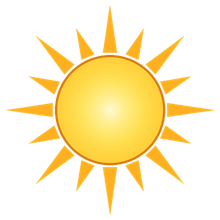
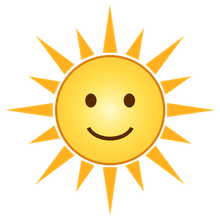
太陽：ストックをやめて、北風とぶつかって相殺する演出に
Claude-Session: https://claude.ai/code/session_01HLDAdxR8EuB7ryd8AUY3Hp

Changed region(s): [[0.3818, 0.5727, 0.6273, 0.6545], [0.5455, 0.4091, 0.6273, 0.4909], [0.3818, 0.4091, 0.4636, 0.4909]]

diff --git a/tsumi/index.html b/tsumi/index.html
@@ -508,7 +508,9 @@ const Game = {
   cerberus(name){ if(S.mode!=='playing') return; startWinFly(-1,name); },
   robot(name){ if(S.mode!=='playing') return; startRobot(name); },
   statue(name){ if(S.mode!=='playing') return; startStatue(name); },
-  sun(name){ if(S.mode!=='playing') return; const m=DB(); let left=m; if(S.wind>0 || S.windPre>0){ S.wind=0; S.windPre=0; left--; logAdd(name+' の太陽が突風を消した','#ffe680'); banner('太陽！','#ffd23f',name+' が突風を消した'); } sunStock=Math.min(SUN_MAX,sunStock+left); if(left>0) logAdd(name+' の太陽：次の突風を防ぐ（'+sunStock+'回分）','#ffe680'); if(left===m) banner('太陽！','#ffd23f','次の突風を'+sunStock+'回ふせぐ'); sunAt=performance.now()/1000; S.holy=Math.max(S.holy,1.2); sfx.good(); },
+  sun(name){ if(S.mode!=='playing') return; const now=performance.now()/1000; if(sunC && !sunC.miss && now-sunC.at<1.4){ logAdd(name+' の太陽：もう消している最中','#ffe680'); return; }
+    if(S.wind>0 || S.windPre>0){ sunC={at:now,dir:S.windDir,y:S.windY,miss:false}; S.windPre=0; S.wind=1.3; S.windMul=1e-6; banner('相殺！','#ffd23f',name+' の太陽が突風を消した'); logAdd(name+' の太陽が突風を相殺した','#ffe680'); S.holy=Math.max(S.holy,1.4); sfx.good(); }
+    else { sunC={at:now,dir:Math.random()<.5?-1:1,y:clamp(S.topY-120,GOAL_Y-160,1290),miss:true}; logAdd(name+' の太陽：いまは風が吹いていない','#ffe680'); } },
   winGacha(name){ if(S.mode!=='playing') return; startWinGacha(name); logAdd(name+' がWINガチャを回した','#ffe680'); sfx.good(); },
   manGacha(name){ if(S.mode!=='playing') return; if(stGuard()){ guarded(name,'タイツガチャ'); return; } const go=()=>startBigGacha(name,MANKEYS,'タイツガチャ',['#0c2a3a','#1f7a8c','#1f7a8c','#06303a']); go(); if(DB()>1) go(); logAdd(name+' がタイツガチャを回した','#ff9aa8'); sfx.bad(); },
   bigGacha(name){ if(S.mode!=='playing') return; if(stGuard()){ guarded(name,'巨大ガチャ'); return; } startBigGacha(name); if(DB()>1) startBigGacha(name); logAdd(name+' が巨大ガチャを回した','#ff9aa8'); sfx.bad(); },
@@ -521,7 +523,7 @@ const Game = {
       if(stGuard() && kind!=='ant'){ guarded(name,kind==='wind'?'突風':kind==='big'?'動物スロット':'ゆれ'); return; }
       if(kind==='quake'){ S.quake=CFG.quakeSec; S.qk=0; S.qkMul=DB(); play('quake'); startNamazu(); logAdd(name+' が地面をゆらした','#ff9aa8'); sfx.bad(); return; }
       if(kind==='ant'){ dropAnt(name); if(DB()>1) dropAnt(name); logAdd(name+' がアリを落とした','#ff9aa8'); sfx.bad(); return; }
-      if(kind==='wind'){ if(sunStock>0){ sunStock--; sunAt=performance.now()/1000; logAdd('太陽が '+name+' の突風を消した（残り'+sunStock+'回）','#ffe680'); banner('太陽が突風を消した！','#ffd23f',name+' の突風'); sfx.good(); return; } S.windMul=DB(); if(S.wind>0 || S.windPre>0){ S.wind=Math.max(S.wind,0)+CFG.windSec; } else { S.windPre=CFG.windPre; S.windDir=Math.random()<.5?-1:1; S.windY=clamp(S.topY+50,GOAL_Y-160,1290); } banner('突風！','#9be9ff',name+' のしわざ'); logAdd(name+' が突風を起こした','#ff9aa8'); }
+      if(kind==='wind'){ S.windMul=DB(); if(S.wind>0 || S.windPre>0){ S.wind=Math.max(S.wind,0)+CFG.windSec; } else { S.windPre=CFG.windPre; S.windDir=Math.random()<.5?-1:1; S.windY=clamp(S.topY+50,GOAL_Y-160,1290); } banner('突風！','#9be9ff',name+' のしわざ'); logAdd(name+' が突風を起こした','#ff9aa8'); }
       else { startRoulette(name); if(DB()>1) startRoulette(name); logAdd(name+' が動物スロットを回した','#ff9aa8'); } sfx.bad(); }
     else if(size===2){ logAdd(name+' がネクロマンサーを呼んだ','#c79bff');
       const apply=()=>{ if(S.mode!=='playing') return; S.ghost=CFG.ghostCount*DB(); S.purple=1.2; S.shake=.3; sfx.bad();
@@ -701,10 +703,18 @@ const stGuard=()=>S.stRound && S.mode==='playing';
 function drawStock(){ if(stStock<=0 || S.mode==='title' || !tenshiImg.naturalWidth) return; const cw=50, ch=92, cols=2, rows=Math.ceil(ST_MAX/cols), pw=cols*cw+22, ph=rows*ch+62, x0=W-pw-12, y0=STOCK_Y; g.save();
   g.fillStyle='rgba(20,14,40,.78)'; rr(x0,y0,pw,ph,18); g.fill(); g.lineWidth=4; g.strokeStyle='#ffe680'; g.stroke(); txt('ストック',x0+pw/2,y0+24,22,'#ffe680','center'); txt(stStock+' / '+ST_MAX,x0+pw/2,y0+ph-18,22,'#fff','center');
   for(let i=0;i<ST_MAX;i++){ const cx=x0+11+(i%cols)*cw+cw/2, cy=y0+42+Math.floor(i/cols)*ch, on=i<stStock; g.globalAlpha=on?1:.16; const iw=tenshiImg.naturalWidth, ih=tenshiImg.naturalHeight, sh=ih*.5, dw=40, dh=dw*sh/iw; if(on){ g.shadowColor='#ffe680'; g.shadowBlur=10+4*Math.sin(S.t*3+i); } g.drawImage(tenshiImg,0,0,iw,sh,cx-dw/2,cy+(ch-8-dh)/2,dw,dh); g.shadowBlur=0; } g.restore(); }
-/* 太陽：突風を消す。風が吹いていない時は「次の突風を1回ふせぐ」分としてためる */
-function drawSun(){ if(S.mode==='title' || !sunImg.naturalWidth) return; const el=performance.now()/1000-sunAt;
-  if(el>=0 && el<2.4){ const u=el/2.4, e=1-Math.pow(1-u,3), sz=260+620*e; g.save(); g.fillStyle='rgba(255,196,70,'+(.3*(1-u))+')'; g.fillRect(0,0,W,1920); g.globalAlpha=clamp((1-u)*1.6,0,1); g.translate(540,620); g.rotate(el*.8); g.shadowColor='#ffb020'; g.shadowBlur=60; g.drawImage(sunImg,-sz/2,-sz/2,sz,sz); g.restore(); }
-  if(sunStock>0){ const sz=104; g.save(); g.translate(SUN_X,SUN_Y); g.save(); g.rotate(S.t*.5); g.shadowColor='#ffb020'; g.shadowBlur=24; g.drawImage(sunImg,-sz/2,-sz/2,sz,sz); g.restore(); if(sunStock>1) txt('×'+sunStock,34,38,34,'#fff','center','#7a3a00'); g.restore(); } }
+/* 太陽（北風と太陽）：突風が来ている間に出すと、風の精霊の反対側から現れて光で押し返し、突風を相殺する。風がない時は顔を出して帰るだけ */
+let sunC=null;
+function drawSunClash(){ const c=sunC; if(!c || !sunImg.naturalWidth || S.mode==='title') return; const el=performance.now()/1000-c.at, D=c.miss?1.5:2.3; if(el>D || el<0){ sunC=null; return; }
+  const d=c.dir, inn=1-Math.pow(1-clamp(el/.3,0,1),3), out=clamp((el-(D-.35))/.35,0,1), off=(1-inn)*460+out*out*460, sz=340, sx0=d>0?viewR()-210+off:viewL()+210-off, y=c.y+Math.sin(el*5)*8;
+  g.save();
+  if(!c.miss){ const mx=spiritMouth(), u0=clamp((el-.25)/.95,0,1), u=u0*u0*(3-2*u0), meet=(sx0+mx)/2+(mx-(sx0+mx)/2)*u, fl=.8+.2*Math.sin(el*60);
+    if(el>.2 && el<1.5){ g.save(); g.globalCompositeOperation='lighter'; const a=clamp((el-.2)/.15,0,1)*clamp((1.5-el)/.25,0,1); const gr=g.createLinearGradient(sx0,0,meet,0); gr.addColorStop(0,'rgba(255,214,90,'+(.75*a)+')'); gr.addColorStop(1,'rgba(255,170,40,'+(.35*a)+')'); g.fillStyle=gr; g.beginPath(); g.moveTo(sx0,y-70); g.lineTo(meet,y-130*fl); g.lineTo(meet,y+130*fl); g.lineTo(sx0,y+70); g.fill();
+      const R=(120+60*u)*fl, rg=g.createRadialGradient(meet,y,0,meet,y,R); rg.addColorStop(0,'rgba(255,255,255,'+a+')'); rg.addColorStop(.4,'rgba(255,230,120,'+(.8*a)+')'); rg.addColorStop(1,'rgba(255,160,40,0)'); g.fillStyle=rg; g.beginPath(); g.arc(meet,y,R,0,7); g.fill();
+      g.strokeStyle='rgba(255,255,255,'+(.9*a)+')'; g.lineWidth=5; g.lineCap='round'; for(let i=0;i<9;i++){ const an=i*.7+el*9, r0=R*.5, r1=R*(1.1+.5*Math.sin(el*23+i*2)); g.beginPath(); g.moveTo(meet+Math.cos(an)*r0,y+Math.sin(an)*r0); g.lineTo(meet+Math.cos(an)*r1,y+Math.sin(an)*r1); g.stroke(); } g.restore(); }
+    if(el>1.2 && el<1.75){ const k=(el-1.2)/.55, R=120+k*760; g.save(); g.globalCompositeOperation='lighter'; const rg=g.createRadialGradient(mx,y,R*.2,mx,y,R); rg.addColorStop(0,'rgba(255,255,255,'+(.9*(1-k))+')'); rg.addColorStop(.6,'rgba(255,220,110,'+(.6*(1-k))+')'); rg.addColorStop(1,'rgba(255,180,60,0)'); g.fillStyle=rg; g.beginPath(); g.arc(mx,y,R,0,7); g.fill(); g.restore(); } }
+  g.translate(sx0,y); if(d<0) g.scale(-1,1); const pu=1+.05*Math.sin(el*14)*(c.miss?0:1); g.scale(pu,pu); g.shadowColor='#ffb020'; g.shadowBlur=50; g.drawImage(sunImg,-sz/2,-sz/2,sz,sz); g.restore(); }
+function drawSun(){}
 function guarded(name,what){ logAdd('天使像が '+name+' の'+what+'をはね返した','#fff3b0'); S.holy=Math.max(S.holy,1.2); const b=S.stBody; if(b) S.rings.push({x:b.position.x,y:b.position.y,t:0}); sfx.good(); }
 function startStatue(name){ const apply=()=>{ { const from=wins, add=CFG.statueWin*DB(); wins+=add; saveWins(); S.winRoll={from,to:wins,t:0,dur:1.0}; logAdd(name+' の天使像：WIN ＋'+add,'#ffe680'); } setBg('statue'); { const m=DB(); if(statue>0){ const ad=Math.min(m,ST_MAX-stStock); stStock+=ad; logAdd(ad>0?'天使像をストック（'+stStock+'体）':'天使像のストックは'+ST_MAX+'体まで','#fff3b0'); } else { statue=CFG.statueRounds; stStock=Math.min(ST_MAX,stStock+m-1); } } statueBy=name; witch=0; setGoal(); S.wind=0; S.windPre=0; S.quake=0; S.roul=null; S.roulQ.length=0; S.white=Math.max(S.white,.6); S.holy=6;
     if(S.mode==='playing' && S.phase==='aim' && !S.stRound){ S.cur={key:'tenshi',s:1,statue:true,name:null,by:null}; S.stRound=true; S.rot=0; } };
@@ -1175,9 +1185,9 @@ function drawHUD(){
   g.fillStyle='#17223b'; g.fillRect(0,1570,W,H-1570);
   txt('いいねで動物',40,1612,30,OPT.likeOn?'#ff9ac1':'#6b7699'); const LW=SHORT?640:770; g.fillStyle='#2a3a5e'; rr(270,1594,LW,36,18); g.fill(); if(!OPT.likeOn){ txt('オフ',270+LW/2,1613,24,'#8b96b8','center'); } else {
   const lw=LW*clamp(S.like/CFG.likeGoal,0,1); if(lw>4){ g.fillStyle='#ff4f93'; rr(270,1594,Math.max(36,lw),36,18); g.fill(); } txt(Math.floor(S.like)+' / '+CFG.likeGoal,270+LW/2,1613,24,'#fff','center'); }
-  drawStock(); drawSun();
+  drawStock();
   let sx=40; const tag=(t,c)=>{ g.font='900 28px '+FONT; const w=g.measureText(t).width+30; g.fillStyle=c; rr(sx,1650,w,44,22); g.fill(); txt(t,sx+w/2,1673,28,'#101828','center'); sx+=w+12; };
-  if(gripT>0) tag('タコ吸着中','#9dffb8'); if(miniT>0) tag('ちび化　'+Math.ceil(miniT)+'秒','#c9ffb0'); if(bigT>0) tag('巨大化　'+Math.ceil(bigT)+'秒','#ff9aa8'); if(baseSpd!==1) tag('ゲーム速度 ×'+baseSpd,'#ffe680'); if(spLv>0) tag('ウサギ：早送り ×'+CFG.fastMult+'　'+Math.ceil(spT)+'秒','#ffb38a'); if(spLv<0) tag('カメ：スロー ×'+CFG.slowMult+'　'+Math.ceil(spT)+'秒','#9bd0ff'); if(statue>0) tag('天使像：残り'+statue+'ラウンド'+(stStock?'　ストック'+stStock+'体':''),'#fff3b0'); if(sunStock>0) tag('太陽：突風を'+sunStock+'回ふせぐ','#ffd23f'); if(witch>0) tag('魔女：ゴール'+GOAL_M+'m','#d9b3ff'); if(witch<0) tag('天使：ゴール'+GOAL_M+'m','#fff3b0'); if(S.windPre>0) tag('風の精霊が息を吸ってる…','#9be9ff'); if(S.wind>0) tag('突風 '+Math.ceil(S.wind)+'秒','#9be9ff'); if(S.quake>0) tag('ゆれ '+Math.ceil(S.quake)+'秒','#ffb020'); if(walls) tag((wallSkin==='vine'?'ツルの壁 ':'ゴーレムの壁 ')+Math.ceil(wallT)+'秒',wallSkin==='vine'?'#9dffb8':'#e0c98a'); if(S.glue>0) tag('のり '+Math.ceil(S.glue)+'秒','#ffd400'); if(bless) tag('世界樹：台が広い（ずっと）','#ffe680'); if(S.seq) tag('ドラゴン襲来中','#ff5c5c'); if(S.ghost>0) tag('見えない　あと'+S.ghost+'匹置くと戻る','#c79bff'); if(curse) tag('ドラゴン：台が小さい（ずっと）','#c79bff');
+  if(gripT>0) tag('タコ吸着中','#9dffb8'); if(miniT>0) tag('ちび化　'+Math.ceil(miniT)+'秒','#c9ffb0'); if(bigT>0) tag('巨大化　'+Math.ceil(bigT)+'秒','#ff9aa8'); if(baseSpd!==1) tag('ゲーム速度 ×'+baseSpd,'#ffe680'); if(spLv>0) tag('ウサギ：早送り ×'+CFG.fastMult+'　'+Math.ceil(spT)+'秒','#ffb38a'); if(spLv<0) tag('カメ：スロー ×'+CFG.slowMult+'　'+Math.ceil(spT)+'秒','#9bd0ff'); if(statue>0) tag('天使像：残り'+statue+'ラウンド'+(stStock?'　ストック'+stStock+'体':''),'#fff3b0'); if(witch>0) tag('魔女：ゴール'+GOAL_M+'m','#d9b3ff'); if(witch<0) tag('天使：ゴール'+GOAL_M+'m','#fff3b0'); if(S.windPre>0) tag('風の精霊が息を吸ってる…','#9be9ff'); if(S.wind>0) tag('突風 '+Math.ceil(S.wind)+'秒','#9be9ff'); if(S.quake>0) tag('ゆれ '+Math.ceil(S.quake)+'秒','#ffb020'); if(walls) tag((wallSkin==='vine'?'ツルの壁 ':'ゴーレムの壁 ')+Math.ceil(wallT)+'秒',wallSkin==='vine'?'#9dffb8':'#e0c98a'); if(S.glue>0) tag('のり '+Math.ceil(S.glue)+'秒','#ffd400'); if(bless) tag('世界樹：台が広い（ずっと）','#ffe680'); if(S.seq) tag('ドラゴン襲来中','#ff5c5c'); if(S.ghost>0) tag('見えない　あと'+S.ghost+'匹置くと戻る','#c79bff'); if(curse) tag('ドラゴン：台が小さい（ずっと）','#c79bff');
   if(sx===40){ if(SHORT && S.log.length){ const L=S.log[S.log.length-1]; txt(L.text,40,1673,28,L.color,'left',null,700); } else txt('順番待ち '+S.names.length+'人',40,1673,28,'#b9c6e6','left',null,700); }
   for(let i=0;i<S.log.length;i++){ const L=S.log[i]; txt(L.text,40,1730+i*44,30,L.color,'left',null,700); }
   g.fillStyle='#101a30'; g.fillRect(0,1862,W,58); txt('ゴールを超えて5秒キープで WIN+1　1匹でも落としたら WIN−1',540,1892,28,'#ffd23f','center');
@@ -1211,7 +1221,7 @@ function draw(){
   drawField(); drawSpirit();
   drawWalls(); drawTako();
   for(const b of S.bodies) drawBody(b);
-  drawTen(); drawEel(); drawCrow(); drawGust(); drawParts(); drawFlyers(); drawMeteors(); drawRobot();
+  drawTen(); drawEel(); drawCrow(); drawGust(); drawSunClash(); drawParts(); drawFlyers(); drawMeteors(); drawRobot();
   if(S.mode==='playing' && S.phase==='aim' && !seqLock()){ const c=S.cur; g.setLineDash([10,16]); g.strokeStyle='rgba(30,60,110,.45)'; g.lineWidth=5; g.beginPath(); g.moveTo(S.px,AIM_Y+60); g.lineTo(S.px,TOP_Y); g.stroke(); g.setLineDash([]);
     if(c.statue){ const h=stH(), hw=stW(h)*.4; g.save(); g.translate(clamp(S.px,table.bounds.min.x+hw,table.bounds.max.x-hw),stAimY(h)+Math.sin(S.t*4)*6); drawStatue(stW(h),h); g.restore(); } else {
     g.save(); g.translate(S.px,AIM_Y+Math.sin(S.t*4)*6); g.rotate(S.rot); g.scale(c.s,c.s); g.translate(-ANIMALS[c.key].com.x,-ANIMALS[c.key].com.y); drawAnimal(c.key); g.restore(); }
@@ -1248,7 +1258,7 @@ const FX_LIST=[
  ['crow','jam','カラス','一番上を1匹さらう',n=>Game.crow(n)],['giant','jam','黒い妖精','次の動物を巨大に',n=>Game.jam(1,n,'giant')],['slot','jam','動物スロット','動物が落ちてくる',n=>Game.jam(1,n,'big')],['biggacha','jam','巨大ガチャ','デカい生き物だけ出る',n=>Game.bigGacha(n)],['mangacha','jam','タイツガチャ','全身タイツの男が降ってくる',n=>Game.manGacha(n)],['usagi','jam','ウサギ','早送り',n=>Game.speed(1,n)],
  ['eel','jam','ウツボ','タコとのりを消す',n=>Game.ungrip(n)],['necro','jam','ネクロマンサー','動物が見えなくなる',n=>Game.jam(2,n)],['witch','jam','魔女','ゴールが上がる',n=>Game.witch(n)],['wrm','jam','−WINルーレット','WINが減る',n=>Game.winRoulette(-1,n)],['coin','jam','悪魔のコイントス','WIN −60 か −200',n=>Game.coin(n)],
  ['dragon','jam','ドラゴン','全消し＋台がずっと縮む',n=>Game.jam(3,n)],['robot','jam','黒い機体','WIN以外ぜんぶリセット',n=>Game.robot(n)],['cerberus','jam','ケルベロス','WIN −100',n=>Game.cerberus(n)],['reaper','jam','死神','WIN −1000',n=>Game.reaper(n)],
- ['fairy','help','妖精','動物を小さく',n=>Game.help(1,n)],['sun','help','太陽','突風を消す・次の突風を防ぐ',n=>Game.sun(n)],['kame','help','カメ','スロー',n=>Game.speed(-1,n)],['tako','help','タコ','吸着MAX',n=>Game.grip(n)],['rewind','help','砂時計','1手戻す・負けを耐える',n=>Game.rewind(n)],
+ ['fairy','help','妖精','動物を小さく',n=>Game.help(1,n)],['sun','help','太陽','吹いている突風を相殺する',n=>Game.sun(n)],['kame','help','カメ','スロー',n=>Game.speed(-1,n)],['tako','help','タコ','吸着MAX',n=>Game.grip(n)],['rewind','help','砂時計','1手戻す・負けを耐える',n=>Game.rewind(n)],
  ['golem','help','ゴーレム','横に落ちない壁',n=>Game.help(2,n)],['angel','help','天使','ゴールが下がる',n=>Game.angel(n)],['wrp','help','＋WINルーレット','WINが増える',n=>Game.winRoulette(1,n)],['wingacha','help','WINガチャ','WIN ＋50 か ＋100',n=>Game.winGacha(n)],['tree','help','世界樹','台がずっと広がる＋3分ツルの壁',n=>Game.help(3,n)],
  ['statue','help','天使像','WIN ＋5 と 5ラウンド守る（10体ストック）',n=>Game.statue(n)],['pegasus','help','ペガサス','WIN ＋100',n=>Game.pegasus(n)],['phoenix','help','不死鳥','WIN ＋1000',n=>Game.phoenix(n)],['double','both','2倍タイム','5分間ぜんぶ2倍',n=>Game.double(n)]];
 const PEND=[]; let PEND_T=0;   // 勝ち・負けの画面の間に届いたギフトは、次のラウンドの頭で順番に反映する
